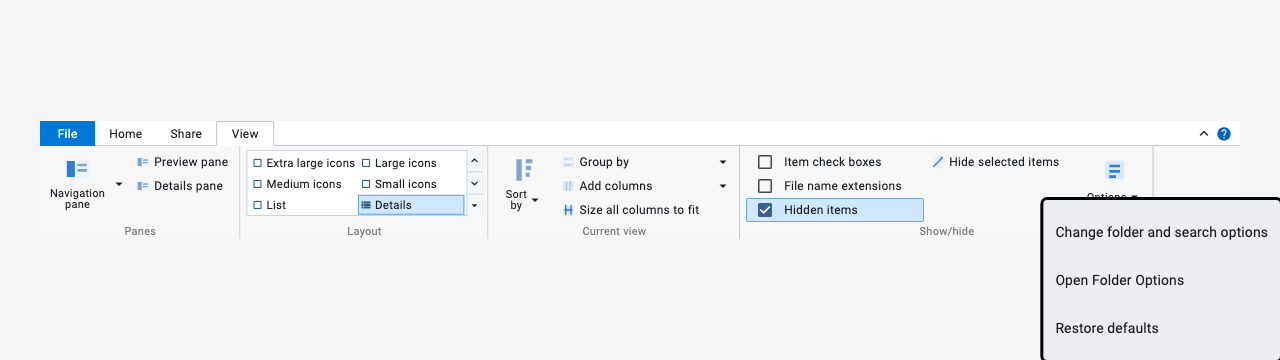
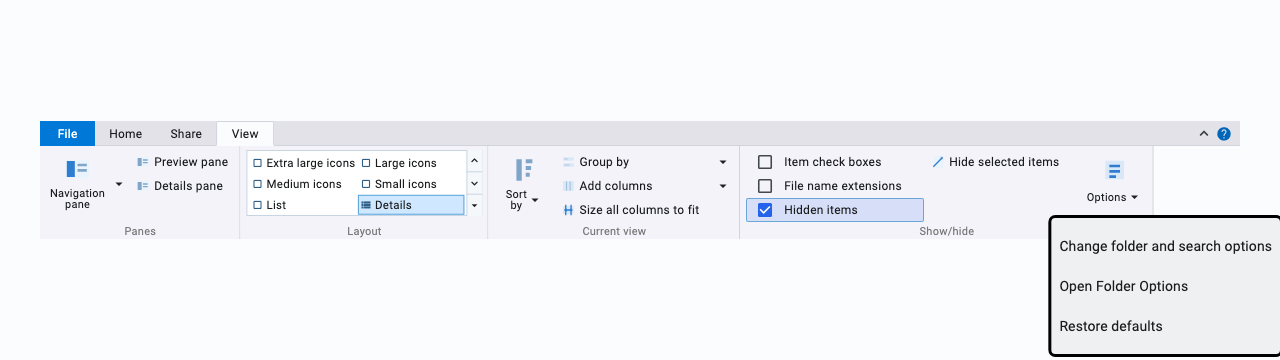
test(goldens): re-skin release screenshots to the FxDesktop DS look
- Point release-screenshot fixtures at FxThemeData (DS color roles, 4px
  control radius, scheme-derived ribbon). Per-script system fonts are kept
  for the localization/designer galleries so Thai/JA/NE still render.
- Add FxThemeData.light/dark(useBrandFonts:) so tests/offline builds skip
  the google_fonts text theme and use the ambient font (no network).
- Add test/flutter_test_config.dart to disable google_fonts runtime
  fetching suite-wide (deterministic, offline).
- Regenerate 14 golden PNGs to the DS visuals. Full suite: 229 passing.

Changed region(s): [[0.0625, 0.3361, 0.9688, 0.4278], [0.8125, 0.55, 1.0, 1.0], [0.5938, 0.55, 0.625, 0.6111]]

diff --git a/test/release_screenshot_test.dart b/test/release_screenshot_test.dart
@@ -328,24 +328,11 @@ class _ReleaseScreenshotShell extends StatelessWidget {
 
   @override
   Widget build(BuildContext context) {
-    const seedColor = Color(0xff2563eb);
     return RepaintBoundary(
       key: boundaryKey,
       child: MaterialApp(
         debugShowCheckedModeBanner: false,
-        theme: ThemeData(
-          colorScheme: ColorScheme.fromSeed(seedColor: seedColor),
-          fontFamily: 'Roboto',
-          scaffoldBackgroundColor: const Color(0xfff6f7f9),
-          extensions: const [
-            FxTheme(
-              gridLineColor: Color(0xffcbd5e1),
-              headerBackground: Color(0xffe8eef8),
-              alternatingRowBackground: Color(0xfff8fafc),
-              selectionBackground: Color(0xffdbeafe),
-            ),
-          ],
-        ),
+        theme: FxThemeData.light(useBrandFonts: false),
         home: Scaffold(
           body: Center(
             child: SizedBox(
@@ -413,25 +400,16 @@ class _LocalizationScreenshotShell extends StatelessWidget {
 
   @override
   Widget build(BuildContext context) {
-    const seedColor = Color(0xff2563eb);
+    // DS colors/shape, but keep the loaded system font for this script.
+    final theme = FxThemeData.light(useBrandFonts: false);
     return RepaintBoundary(
       key: boundaryKey,
       child: MaterialApp(
         debugShowCheckedModeBanner: false,
         localizationsDelegates: FxDesktopLocalizations.localizationsDelegates,
         supportedLocales: FxDesktopLocalizations.supportedLocales,
-        theme: ThemeData(
-          colorScheme: ColorScheme.fromSeed(seedColor: seedColor),
-          fontFamily: scenario.fontFamily,
-          scaffoldBackgroundColor: const Color(0xfff6f7f9),
-          extensions: const [
-            FxTheme(
-              gridLineColor: Color(0xffcbd5e1),
-              headerBackground: Color(0xffe8eef8),
-              alternatingRowBackground: Color(0xfff8fafc),
-              selectionBackground: Color(0xffdbeafe),
-            ),
-          ],
+        theme: theme.copyWith(
+          textTheme: theme.textTheme.apply(fontFamily: scenario.fontFamily),
         ),
         home: Scaffold(
           body: Center(
@@ -546,35 +524,11 @@ class _RibbonMaterialApp extends StatelessWidget {
 
   @override
   Widget build(BuildContext context) {
-    const seedColor = Color(0xff0078d7);
     return MaterialApp(
       debugShowCheckedModeBanner: false,
       localizationsDelegates: FxDesktopLocalizations.localizationsDelegates,
       supportedLocales: FxDesktopLocalizations.supportedLocales,
-      theme: ThemeData(
-        colorScheme: ColorScheme.fromSeed(seedColor: seedColor),
-        fontFamily: 'Roboto',
-        scaffoldBackgroundColor: const Color(0xfff5f5f5),
-        extensions: const [
-          FxTheme(
-            gridLineColor: Color(0xffcbd5e1),
-            headerBackground: Color(0xffe8eef8),
-            alternatingRowBackground: Color(0xfff8fafc),
-            selectionBackground: Color(0xffdbeafe),
-          ),
-          FxRibbonThemeData(
-            density: FxRibbonDensity.regular,
-            backgroundColor: Color(0xfff7f7f7),
-            tabStripColor: Color(0xffffffff),
-            activeTabColor: Color(0xffffffff),
-            groupBackgroundColor: Color(0xfff7f7f7),
-            hoverColor: Color(0xffdbeafe),
-            pressedColor: Color(0xffcfe8ff),
-            keyTipBackgroundColor: Color(0xff111827),
-            keyTipForegroundColor: Colors.white,
-          ),
-        ],
-      ),
+      theme: FxThemeData.light(useBrandFonts: false),
       home: child,
     );
   }
@@ -593,7 +547,8 @@ class _RibbonDesignerScreenshotShell extends StatelessWidget {
 
   @override
   Widget build(BuildContext context) {
-    const seedColor = Color(0xff2563eb);
+    // DS colors/shape, but keep the loaded system font for this script.
+    final theme = FxThemeData.light(useBrandFonts: false);
     return RepaintBoundary(
       key: boundaryKey,
       child: MaterialApp(
@@ -601,25 +556,8 @@ class _RibbonDesignerScreenshotShell extends StatelessWidget {
         locale: locale,
         localizationsDelegates: FxDesktopLocalizations.localizationsDelegates,
         supportedLocales: FxDesktopLocalizations.supportedLocales,
-        theme: ThemeData(
-          colorScheme: ColorScheme.fromSeed(seedColor: seedColor),
-          fontFamily: fontFamily,
-          scaffoldBackgroundColor: const Color(0xfff6f7f9),
-          extensions: const [
-            FxTheme(
-              gridLineColor: Color(0xffcbd5e1),
-              headerBackground: Color(0xffe8eef8),
-              alternatingRowBackground: Color(0xfff8fafc),
-              selectionBackground: Color(0xffdbeafe),
-            ),
-            FxRibbonThemeData(
-              density: FxRibbonDensity.compact,
-              backgroundColor: Color(0xfffbfdff),
-              tabStripColor: Color(0xffeef4fb),
-              activeTabColor: Colors.white,
-              groupBackgroundColor: Color(0xffffffff),
-            ),
-          ],
+        theme: theme.copyWith(
+          textTheme: theme.textTheme.apply(fontFamily: fontFamily),
         ),
         home: const Scaffold(
           body: Center(

diff --git a/lib/src/fx_theme_data.dart b/lib/src/fx_theme_data.dart
@@ -134,14 +134,29 @@ abstract final class FxThemeData {
       GoogleFonts.robotoMono(textStyle: base);
 
   /// The FxDesktop light theme.
-  static ThemeData light({FxDensityProfile profile = FxDensityProfile.desktop}) =>
-      _build(Brightness.light, profile);
+  ///
+  /// Set [useBrandFonts] to `false` to skip the google_fonts text theme and
+  /// keep the ambient font — useful in tests / offline builds that cannot load
+  /// web fonts, or for consumers that bundle their own. Color roles, density,
+  /// shape, and extensions are unchanged either way.
+  static ThemeData light({
+    FxDensityProfile profile = FxDensityProfile.desktop,
+    bool useBrandFonts = true,
+  }) => _build(Brightness.light, profile, useBrandFonts);
 
   /// The FxDesktop dark theme (GitHub-style palette).
-  static ThemeData dark({FxDensityProfile profile = FxDensityProfile.desktop}) =>
-      _build(Brightness.dark, profile);
+  ///
+  /// See [light] for [useBrandFonts].
+  static ThemeData dark({
+    FxDensityProfile profile = FxDensityProfile.desktop,
+    bool useBrandFonts = true,
+  }) => _build(Brightness.dark, profile, useBrandFonts);
 
-  static ThemeData _build(Brightness brightness, FxDensityProfile profile) {
+  static ThemeData _build(
+    Brightness brightness,
+    FxDensityProfile profile,
+    bool useBrandFonts,
+  ) {
     final scheme = brightness == Brightness.light
         ? lightColorScheme
         : darkColorScheme;
@@ -163,7 +178,7 @@ abstract final class FxThemeData {
       visualDensity: isDesktop
           ? VisualDensity.compact
           : VisualDensity.comfortable,
-      textTheme: uiTextTheme(base.textTheme),
+      textTheme: useBrandFonts ? uiTextTheme(base.textTheme) : base.textTheme,
       filledButtonTheme: FilledButtonThemeData(style: buttonStyle),
       outlinedButtonTheme: OutlinedButtonThemeData(style: buttonStyle),
       textButtonTheme: TextButtonThemeData(style: buttonStyle),

diff --git a/test/flutter_test_config.dart b/test/flutter_test_config.dart
@@ -1,0 +1,14 @@
+import 'dart:async';
+
+import 'package:google_fonts/google_fonts.dart';
+
+/// Runs once before the whole test suite.
+///
+/// The FxDesktop theme resolves fonts through google_fonts. Tests must never
+/// reach out to the network: disable runtime fetching so google_fonts falls
+/// back to the ambient test font instead of throwing on a failed http fetch.
+/// This keeps widget and golden tests deterministic and offline.
+Future<void> testExecutable(FutureOr<void> Function() testMain) async {
+  GoogleFonts.config.allowRuntimeFetching = false;
+  await testMain();
+}
